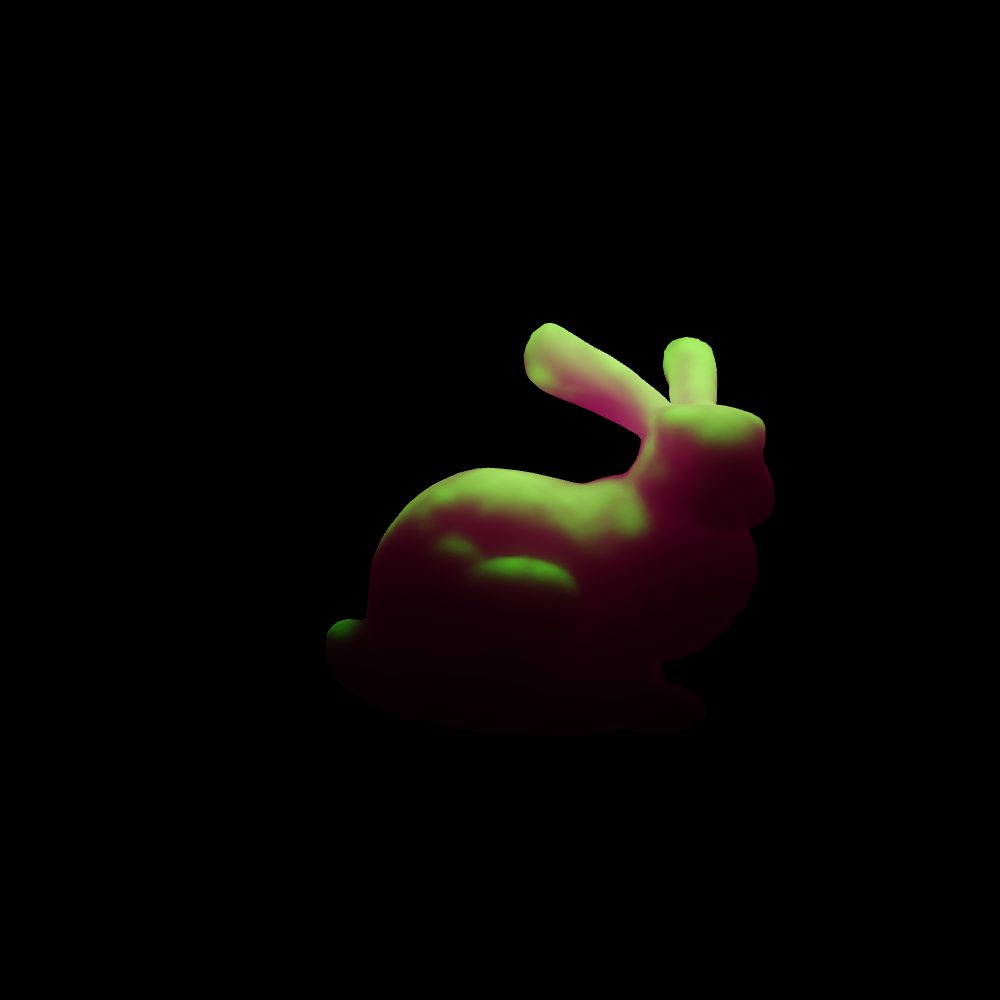
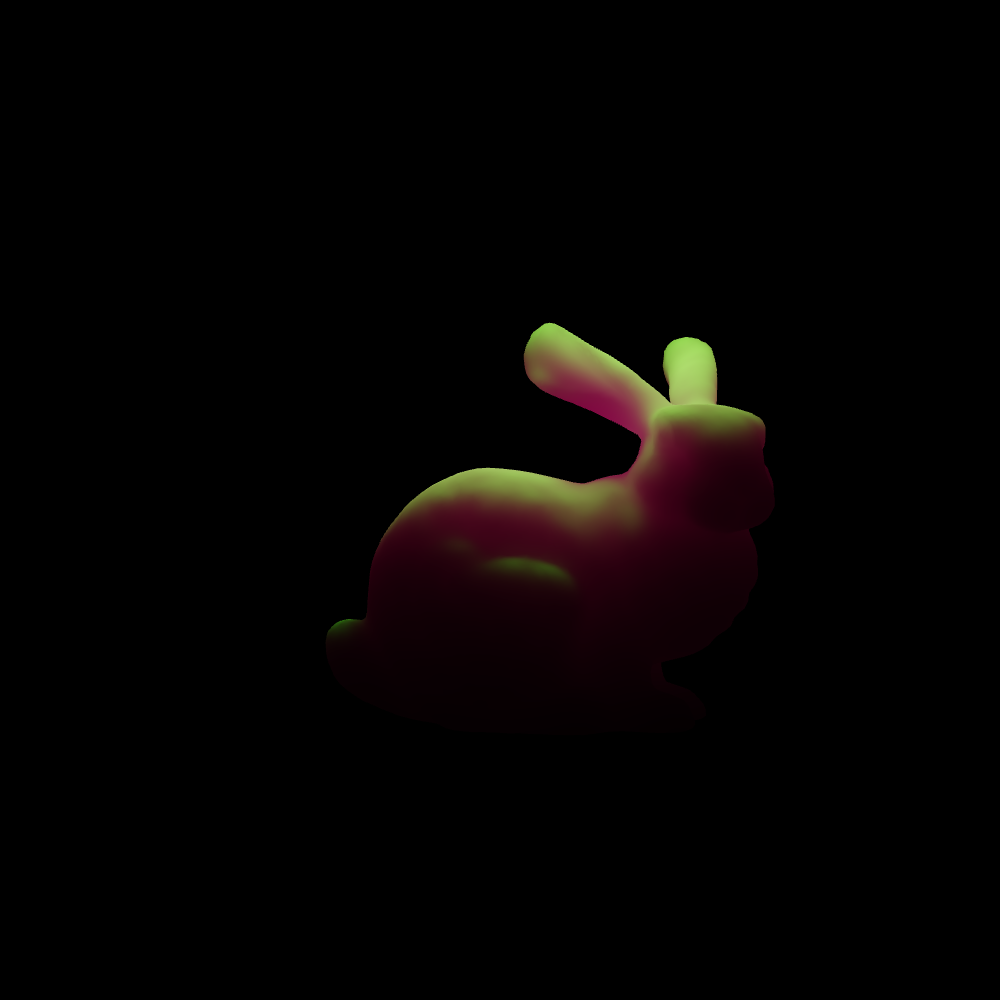
fix over-exposure when using total surface area

Changed region(s): [[0.372, 0.31, 0.775, 0.589], [0.341, 0.62, 0.372, 0.651]]

diff --git a/src/main.py b/src/main.py
@@ -7,6 +7,7 @@ from pyrr import Vector3
 from camera import Camera
 import luisa
 from luisa.mathtypes import *
+from luisa.accel import offset_ray_origin
 from luisa import RandomSampler
 import moderngl
 import tinyobjloader
@@ -88,6 +89,7 @@ sigma_a: float3 = make_float3(1.0)
 sigma_s: float3 = make_float3(1.0)
 eta: float = 1.0
 g: float = 0.0
+spp: int = 2400
 
 
 class Equation(Enum):
@@ -134,12 +136,8 @@ def parse_scene(filename: str):
                 continue
             local_normal = np.cross((p1 - p0) / np.linalg.norm(p1 - p0), (p2 - p0) / np.linalg.norm(p2 - p0))
             local_normal /= np.linalg.norm(local_normal)
-            surface_area += sum(
-                map(
-                    lambda x: local_surface_area / 3 * np.abs(np.dot(normal_array[x], local_normal)),
-                    (i0, i1, i2)
-                )
-            )
+            surface_area +=\
+                local_surface_area / 3 * sum(max(np.dot(normal_array[x], local_normal), 0.0) for x in (i0, i1, i2))
         triangle_arrays.append(triangle_array)
         # upload vertex array and normal array to GL
         global vbo, ibo, nbo
@@ -227,6 +225,8 @@ def parse_scene(filename: str):
         sigma_s = make_float3(*scene_data["sigma_s"])
         eta = scene_data["eta"]
         g = scene_data["g"]
+        global spp
+        spp = scene_data["spp"]
 
 
 class Parameters(NamedTuple):
@@ -270,7 +270,7 @@ def calculate_parameters():
 
 
 @luisa.func
-def vertex_influx_kernel(influx, spp):
+def vertex_influx_kernel(influx):
     acc = make_float3(0.0)
     idx = dispatch_id().x
     vertex = vertex_buffer.read(idx).xyz
@@ -279,20 +279,22 @@ def vertex_influx_kernel(influx, spp):
     for i in range(point_light_count):
         point_light = point_light_buffer.read(i)
         direction = point_light.position - vertex
-        probe_ray = make_ray(vertex, normalize(direction), 1e-2, length(direction))
+        probe_ray = make_ray(offset_ray_origin(vertex, normal), normalize(direction), 1e-2, length(direction))
         if not accel.trace_any(probe_ray):
             acc += point_light.emission * max(dot(normal, normalize(direction)), 0.0)
     for i in range(direction_light_count):
         direction_light = direction_light_buffer.read(i)
         direction = normalize(-direction_light.direction)
-        probe_ray = make_ray(vertex, direction, 1e-2, 1e10)
+        probe_ray = make_ray(offset_ray_origin(vertex, normal), direction, 1e-2, 1e10)
         if not accel.trace_any(probe_ray):
             acc += direction_light.emission * max(dot(normal, direction), 0.0)
+    sampler = RandomSampler(make_int3(idx))
     for i in range(spp):
         # TODO add light importance sampling to accelerate convergence
-        sampler = RandomSampler(make_int3(idx, i, idx ^ i))
         direction = onb.to_world(cosine_sample_hemisphere(make_float2(sampler.next(), sampler.next())))
-        ray = make_ray(vertex, direction, 1e-2, 1e10)
+        if dot(direction, normal) < 1e-3:
+            continue
+        ray = make_ray(offset_ray_origin(vertex, normal), direction, 1e-2, 1e10)
         hit = accel.trace_closest(ray)
         if hit.miss() or hit.inst == 0:
             continue
@@ -311,7 +313,7 @@ def vertex_influx_kernel(influx, spp):
 
 def collect_vertex_influx() -> luisa.Buffer:
     vertex_influx_buffer = luisa.Buffer.empty(model_vertex_count, float3)
-    vertex_influx_kernel(vertex_influx_buffer, 6400, dispatch_size=model_vertex_count)
+    vertex_influx_kernel(vertex_influx_buffer, dispatch_size=model_vertex_count)
     return vertex_influx_buffer
 
 
@@ -388,15 +390,10 @@ def main():
                     for (int i = 0; i < vertex_count; i++)
                     {
                         float r = length(vertex_position - vertex[i].xyz);
-                        if (r <= 0.025) {
-                            vec3 a = 1.0 / (dmfp * 0.1 * 3.1415926);
-                            acc += influx[i].rgb * a;
-                        }
-                        else {
-                            vec3 a = exp(-r / (3.0 * dmfp));
-                            a = (a + a * a * a) / (8.0 * 3.1415926 * dmfp * r);
-                            acc += influx[i].rgb * a;
-                        }
+                        r = max(0.02, r);
+                        vec3 a = exp(-r / (3.0 * dmfp));
+                        a = (a + a * a * a) / (8.0 * 3.1415926 * dmfp * r);
+                        acc += influx[i].rgb * a;
                     }
                     acc *= albedo * surface_area / (vertex_count * 3.1415926) * transmittance;
                     efflux[vertex_index] = vec4(acc, 1.0);
